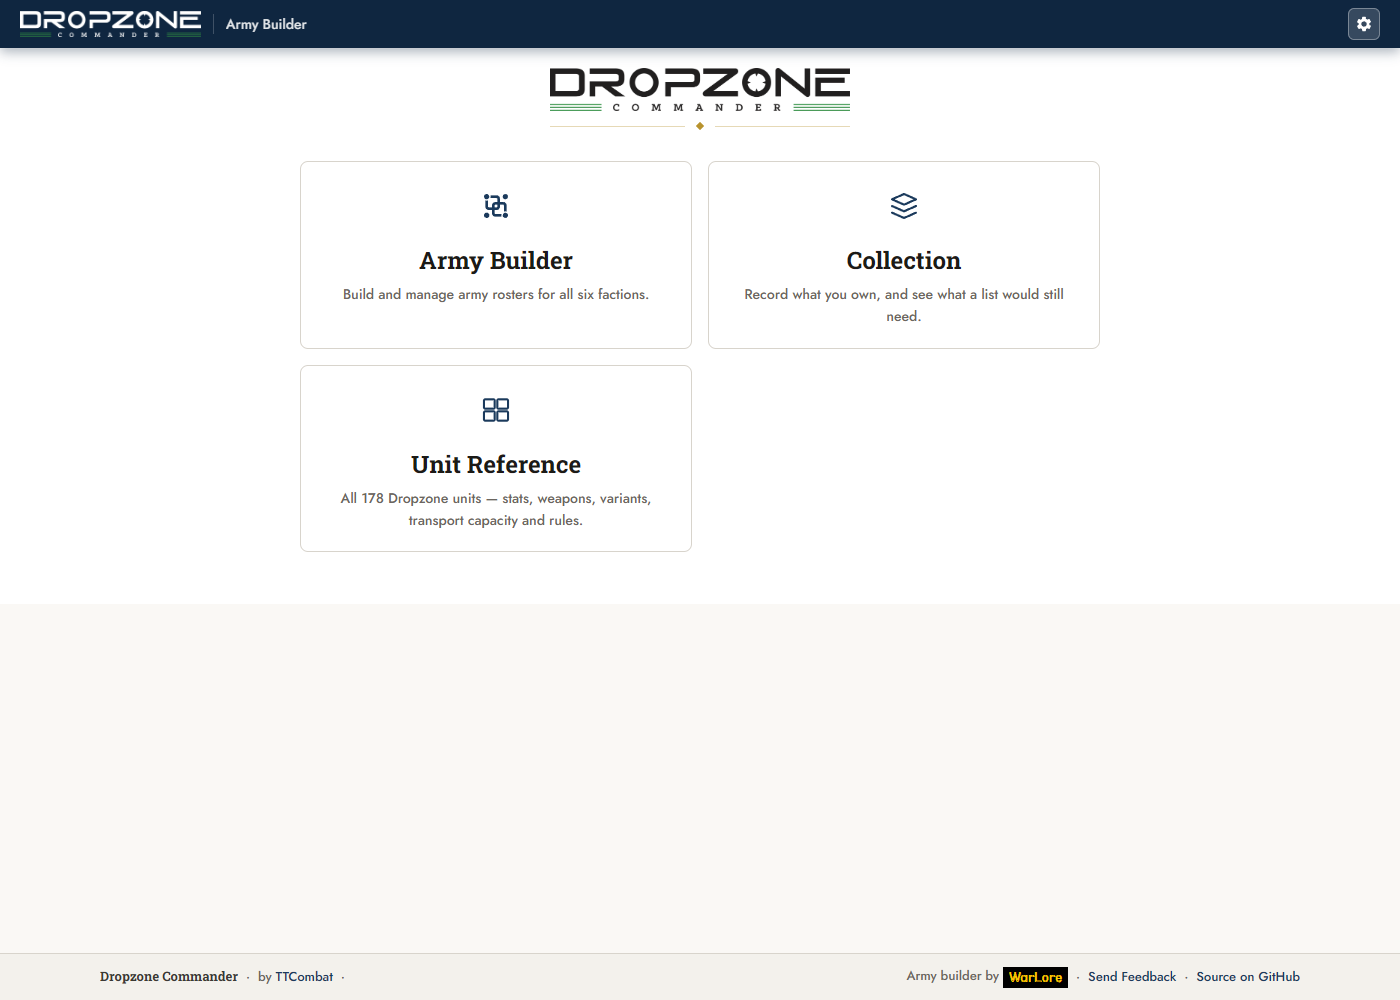
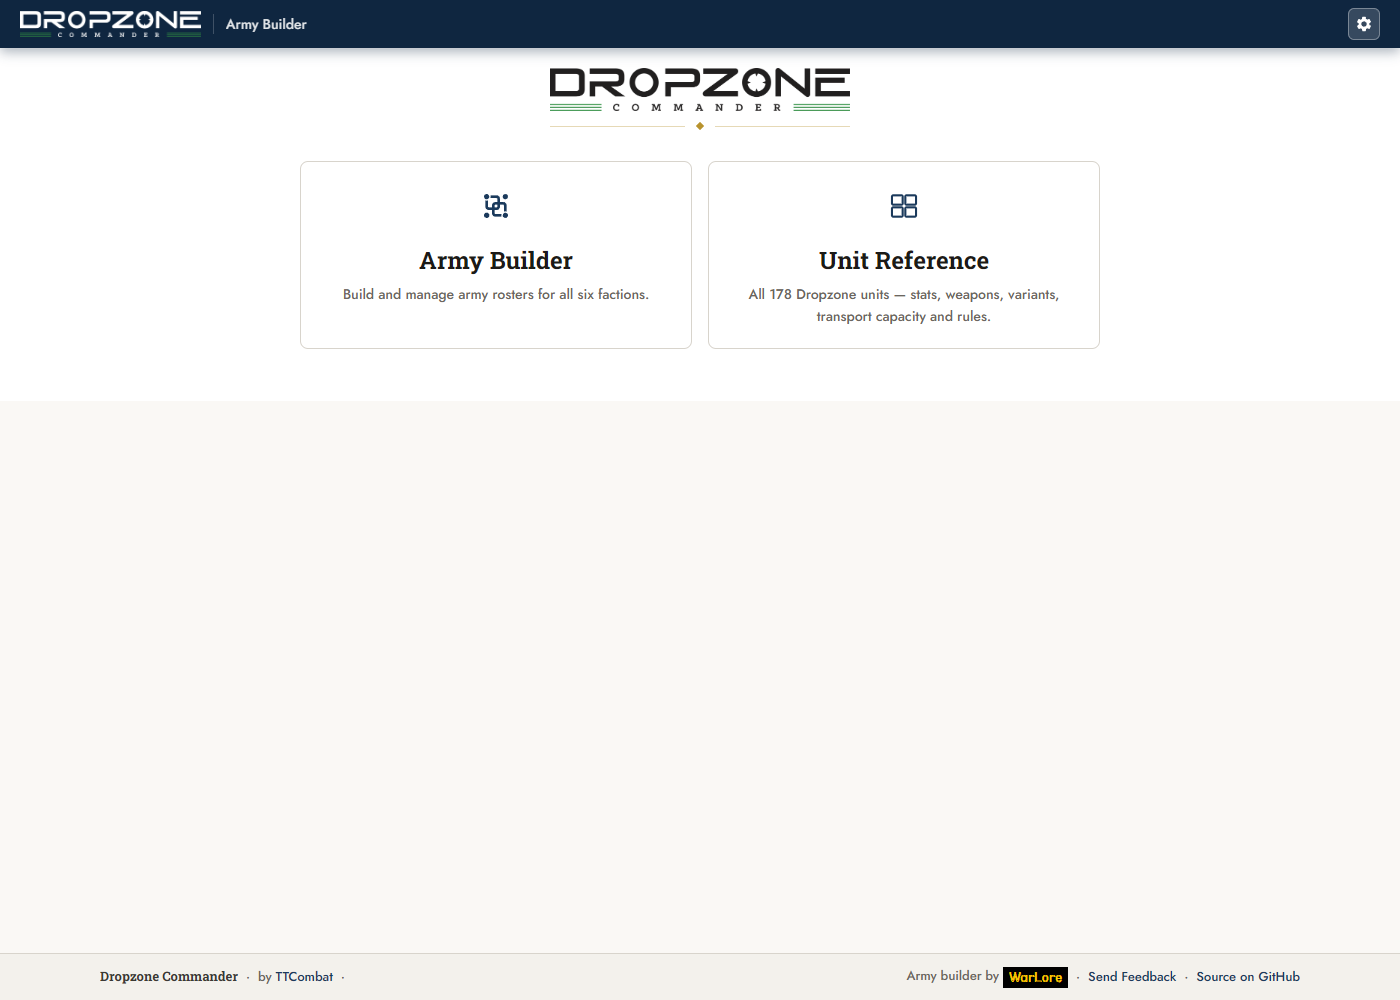
Two alert severities, and Collection off until you ask for it
Alerts head with their own count -- "1 issue to fix", "1 note" -- so you can
see how much is left without reading. An issue means the list is illegal; a
note means there is something worth knowing about a list that is otherwise
fine. They were rendered identically before.

The rule reference moved to the end of the sentence and went quiet. Wearing
"3.2.5" as a badge on the front made it read as a label for the whole line.

Collection is opt-in and off by default, as it is in the Dropfleet builder.
Its landing card is hidden and the builder no longer reports what you are
short of, because that only means something once you have said what you own.

Settings is grouped -- Appearance, Builder, Offline use, Sync -- and a setting
is now a name and a control with the explanation in the tooltip. The captions
underneath were invented: "Dark mode is easier at a dim table", "Opt in to
keep two devices in step". The sync line is Jet's wording from the Dropfleet
builder instead.

Changed region(s): [[0.5221, 0.248, 0.7679, 0.341], [0.2457, 0.403, 0.4607, 0.527], [0.6143, 0.186, 0.6757, 0.217]]

diff --git a/js/dzc-shell.js b/js/dzc-shell.js
@@ -167,27 +167,70 @@ const App = (() => {
 
   // --------------------------------------------------------------- settings
 
+  /* A setting is a name and a switch. The explanation lives in the tooltip,
+   * not in a sentence under the control — same as the Dropfleet builder, where
+   * no toggle carries a caption. */
+  function tog(key, name, desc) {
+    return `<label class="dzc-set-toggle" title="${esc(desc)}">
+      <span>${esc(name)}</span>
+      <input type="checkbox" ${settings[key] ? 'checked' : ''}
+             onchange="App.toggleSetting('${key}', this.checked)">
+    </label>`;
+  }
+
+  function toggleSetting(key, on) {
+    settings[key] = !!on;
+    try { localStorage.setItem(SETTINGS_KEY, JSON.stringify(settings)); } catch (e) { /* quota */ }
+    applyCollectionSetting();
+    // Collection changes what the builder shows, so redraw it if it is open.
+    if (window.DZCBuilder && DZCBuilder.refresh) DZCBuilder.refresh();
+  }
+
+  /* Collection is off until asked for, so its landing card stays hidden and
+   * the builder does not report a shortfall against a collection you never
+   * said you had. */
+  function collectionOn() { return !!settings.showCollection; }
+
+  function applyCollectionSetting() {
+    const card = $('landing-collection');
+    if (card) card.classList.toggle('hidden', !collectionOn());
+  }
+
   function openSettings() {
     const dark = settings.theme === 'dark';
     $('settings-body').innerHTML = `
-      <div class="dzc-set-row">
-        <div><b>Theme</b><p>Dark mode is easier at a dim table.</p></div>
-        <div class="dzc-seg">
-          <button type="button" class="${dark ? '' : 'is-on'}" onclick="App.setTheme('light')">Light</button>
-          <button type="button" class="${dark ? 'is-on' : ''}" onclick="App.setTheme('dark')">Dark</button>
+      <div class="dzc-set-group">
+        <div class="dzc-set-title">Appearance</div>
+        <div class="dzc-set-row">
+          <span>Theme</span>
+          <div class="dzc-seg">
+            <button type="button" class="${dark ? '' : 'is-on'}" onclick="App.setTheme('light')">Light</button>
+            <button type="button" class="${dark ? 'is-on' : ''}" onclick="App.setTheme('dark')">Dark</button>
+          </div>
         </div>
       </div>
-      <div class="dzc-set-row"><div><b>Offline use</b>
-        <p>Download the whole app so it works with no signal.</p></div></div>
-      <div id="offline-panel"></div>
-      <div class="dzc-set-row">
-        <div><b>Sync armies online</b>
-          <p>Opt in to keep two devices in step. No account, no password.</p></div>
-        <button class="btn btn-outline btn-sm" type="button" onclick="App.openSyncModal()">Sync…</button>
+      <div class="dzc-set-group">
+        <div class="dzc-set-title">Builder</div>
+        ${tog('showCollection', 'Collection',
+          'Track what you own, and show what a list still needs. Counts come from the Collection page.')}
       </div>
-      <div class="dzc-set-row">
-        <div><b>About</b><p>A WarLore project. Game data and art belong to TTCombat.</p></div>
-        <button class="btn btn-ghost btn-sm" type="button" onclick="App.openChangelog()">What's New</button>
+      <div class="dzc-set-group">
+        <div class="dzc-set-title">Offline use</div>
+        <div id="offline-panel"></div>
+      </div>
+      <div class="dzc-set-group">
+        <div class="dzc-set-title">Sync</div>
+        <p class="dzc-set-note">${window.FleetSync && FleetSync.enabled()
+          ? 'Syncing is on for this device.'
+          : 'Keep the same armies on your phone and your computer.'}</p>
+        <button class="btn btn-outline btn-sm" type="button" onclick="App.openSyncModal()">Sync armies online</button>
+      </div>
+      <div class="dzc-set-group">
+        <div class="dzc-set-actions">
+          <button class="btn btn-ghost btn-sm" type="button" onclick="App.openChangelog()">What's New</button>
+          <a class="btn btn-ghost btn-sm" href="mailto:warlore1@outlook.com?subject=Dropzone%20builder%20feedback">Send feedback</a>
+        </div>
+        <p class="dzc-set-note">A WarLore project. Game data and art belong to TTCombat.</p>
       </div>`;
     openModal('modal-settings');
     renderOfflinePanel();
@@ -290,6 +333,7 @@ const App = (() => {
   function init() {
     loadSettings();
     applyTheme(settings.theme);
+    applyCollectionSetting();
     if (window.OfflineSync) OfflineSync.init(() => renderOfflinePanel());
     if (window.FleetSync) {
       FleetSync.onChange = () => {
@@ -311,7 +355,7 @@ const App = (() => {
 
   return {
     navigate, showView, openModal, closeModal,
-    openSettings, setTheme,
+    openSettings, setTheme, toggleSetting, collectionOn, applyCollectionSetting,
     renderOfflinePanel, runOfflineSync, deleteOfflineData,
     openSyncModal, syncStart, syncStop, syncNow, syncJoin,
     openChangelog

diff --git a/css/dzc.css b/css/dzc.css
@@ -177,12 +177,24 @@
 .dzc-ratio.is-std span, .dzc-ratio.is-std i { color: rgba(255,255,255,.85); }
 .dzc-ratio.is-over { background: #fde8e6; color: #7a1c15; }
 
-.dzc-issues { list-style: none; margin: 0 0 12px; padding: 10px 12px; border-radius: 6px; font-size: 13px; }
-.dzc-issues li { display: flex; gap: 8px; align-items: baseline; padding: 3px 0; }
+.dzc-issues { margin: 0 0 8px; padding: 8px 10px; border-radius: 6px; font-size: 13px; }
+.dzc-issues-head {
+  margin: 0 0 3px;
+  font: 700 10.5px/1.4 var(--font-condensed, 'Jost', sans-serif);
+  text-transform: uppercase; letter-spacing: .05em; opacity: .8;
+}
+.dzc-issues ul { list-style: none; margin: 0; padding: 0; }
+.dzc-issues li { padding: 2px 0; }
 .dzc-issues--err { background: #fde8e6; color: #7a1c15; }
 .dzc-issues--warn { background: var(--warn-bg, #fdf3d8); color: var(--warn-ink, #6b4e00); }
-.dzc-rulenum { flex: 0 0 auto; font: 700 10px/1.6 var(--font-ui, 'Jost', sans-serif); padding: 0 5px; border-radius: 3px; background: rgba(0,0,0,.10); }
-.dzc-legal { margin: 0 0 12px; font-size: 13px; font-weight: 600; color: var(--success-ink, #2f7a37); }
+/* The rule reference belongs at the end of the sentence, quiet, not worn as a
+   badge on the front where it reads as a label for the whole line. */
+.dzc-rulecite { opacity: .6; font-size: 11.5px; white-space: nowrap; }
+.dzc-legal {
+  display: flex; align-items: center; gap: 5px;
+  margin: 0 0 8px; font-size: 13px; font-weight: 600;
+  color: var(--success-ink, #2f7a37);
+}
 
 .dzc-group-card { border: 1px solid var(--line, #d8d0c0); border-radius: 8px; padding: 12px; margin-bottom: 12px; background: var(--surface-2, #fff); }
 .dzc-group-card.is-over { border-color: #b3261e; }
@@ -422,10 +434,22 @@ button.dzc-sq-name:focus-visible { outline: 2px solid var(--acc); outline-offset
 .dzc-upg.is-on { color: var(--acc); }
 
 /* ── settings / sync dialogs ── */
-.dzc-set-row { display: flex; align-items: flex-start; justify-content: space-between; gap: 14px; padding: 11px 0; border-bottom: 1px solid var(--line, #eee5d6); }
-.dzc-set-row:last-of-type { border-bottom: 0; }
-.dzc-set-row b { display: block; font-size: 14px; }
-.dzc-set-row p { margin: 2px 0 0; font-size: 12px; color: var(--ink-2, #6b6459); }
+/* Settings are grouped, and a setting is a name plus a control. The
+   explanation is the tooltip, never a caption underneath. */
+.dzc-set-group { padding: 8px 0 10px; border-bottom: 1px solid var(--line, #eee5d6); }
+.dzc-set-group:last-child { border-bottom: 0; }
+.dzc-set-title {
+  margin-bottom: 4px;
+  font: 700 10.5px/1.4 var(--font-condensed, 'Jost', sans-serif);
+  text-transform: uppercase; letter-spacing: .06em; color: var(--ink-2, #6b6459);
+}
+.dzc-set-row { display: flex; align-items: center; justify-content: space-between; gap: 14px; padding: 5px 0; }
+.dzc-set-row > span { font-size: 14px; }
+.dzc-set-toggle {
+  display: flex; align-items: center; justify-content: space-between; gap: 14px;
+  padding: 5px 0; font-size: 14px; cursor: pointer;
+}
+.dzc-set-toggle input { width: 17px; height: 17px; accent-color: var(--acc-ink, #1b3a5c); cursor: pointer; }
 .dzc-set-note { margin: 0 0 6px; font-size: 12px; color: var(--ink-2, #6b6459); }
 .dzc-set-actions { display: flex; flex-wrap: wrap; gap: 8px; padding-bottom: 10px; }
 .dzc-seg { display: inline-flex; border: 1px solid var(--line, #d8d0c0); border-radius: 6px; overflow: hidden; flex: 0 0 auto; }

diff --git a/js/dzc-builder.js b/js/dzc-builder.js
@@ -233,11 +233,9 @@
         <div class="dzc-ratio is-std"><span>Standard</span><b>${std}</b></div>${ratio}
       </div>
 
-      ${v.errors.length ? `<ul class="dzc-issues dzc-issues--err">${v.errors.map(e =>
-        `<li><span class="dzc-rulenum">${esc(e.rule)}</span>${esc(e.msg)}</li>`).join('')}</ul>` : ''}
-      ${v.warnings.length ? `<ul class="dzc-issues dzc-issues--warn">${v.warnings.map(e =>
-        `<li><span class="dzc-rulenum">${esc(e.rule)}</span>${esc(e.msg)}</li>`).join('')}</ul>` : ''}
-      ${!v.errors.length && a.groups.length ? '<p class="dzc-legal">This army is legal.</p>' : ''}
+      ${alertList(v.errors, 'err', 'issue to fix', 'issues to fix')}
+      ${alertList(v.warnings, 'warn', 'note', 'notes')}
+      ${!v.errors.length && a.groups.length ? `<p class="dzc-legal">${window.DZCIcon('check_circle', { size: 15 })}This army is legal.</p>` : ''}
       ${shortfallHtml(a)}
 
       ${a.groups.map(g => groupHtml(a, g)).join('')}
@@ -250,6 +248,9 @@
    * the rules issues above: owning too few models is not illegal, it is a
    * shopping list. */
   function shortfallHtml(a) {
+    // Off until you opt in: reporting what you are short of only makes sense
+    // once you have told the app what you own.
+    if (!window.App || !App.collectionOn || !App.collectionOn()) return '';
     if (!window.DZCCollection) return '';
     window.DZCCollection.load();
     const short = window.DZCCollection.shortfall(a);
@@ -383,6 +384,20 @@
       const on = w.variants || [];
       return names.every(n => on.indexOf(n) !== -1);
     });
+  }
+
+  /* Two severities, and they are not the same thing: an "issue to fix" means
+   * the list is illegal, a "note" means there is something worth knowing about
+   * a list that is otherwise fine. Each is headed with its own count so you can
+   * see at a glance how much is left, and each cites its rule at the END of the
+   * sentence rather than wearing a rule number as a badge on the front. */
+  function alertList(items, kind, one, many) {
+    if (!items.length) return '';
+    return `<div class="dzc-issues dzc-issues--${kind}">
+      <p class="dzc-issues-head">${items.length} ${items.length === 1 ? one : many}</p>
+      <ul>${items.map(e =>
+        `<li>${esc(e.msg)} <span class="dzc-rulecite">(rule ${esc(e.rule)})</span></li>`).join('')}</ul>
+    </div>`;
   }
 
   /* Stats, shared guns and rules for a unit. Shared by the picker card and the
@@ -609,6 +624,9 @@
 
   window.DZCBuilder = {
     renderList, renderBuilder, openNew, createArmy, del, open,
+    /* Redraw whatever is on screen. Settings changes call this because a
+     * toggle can change what the builder is allowed to show. */
+    refresh: () => { if (current) renderBuilder(current.id); },
     pickFaction: id => { picked.faction = id; openNew(); },
     /* Clicking a size sets the limit to the TOP of that band, which is what
      * people mean by "a Clash game". Typing an exact number then wins, because

diff --git a/index.html b/index.html
@@ -82,7 +82,9 @@
         <h2 class="tool-card-title">Army Builder</h2>
         <p class="tool-card-desc">Build and manage army rosters for all six factions.</p>
       </div>
-      <div class="tool-card tool-card--ref card-deco" onclick="App.navigate('collection')">
+      <!-- Collection is opt-in and off by default, as in the Dropfleet builder.
+           App.applyCollectionSetting() reveals this card when it is switched on. -->
+      <div class="tool-card tool-card--ref card-deco hidden" id="landing-collection" onclick="App.navigate('collection')">
         <div class="tool-card-icon">
           <svg width="32" height="32" viewBox="0 0 24 24" fill="none" stroke="currentColor" stroke-width="1.6" stroke-linecap="round" stroke-linejoin="round"><path d="M3 7l9-4 9 4-9 4-9-4z"/><path d="M3 12l9 4 9-4"/><path d="M3 17l9 4 9-4"/></svg>
         </div>
